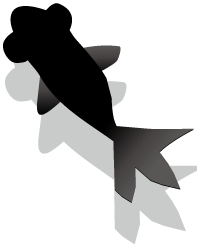
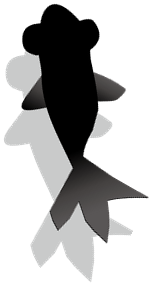
fix: 金魚の画像を頭上向きに統一し、進行方向へ正しく向くようにする
設計:
- 選定内容: 金魚の画像素材（goldfish-1〜4.png）を、目（黒い部分）の位置から頭部方向を検出し、全て頭が真上を向くよう回転・再トリミングした。表示側（GoldfishSchool.tsx）は、頭上向きを基準に進行方向（headingDeg、0度=右向き）へ合わせてrotate()で回転させるよう変更し、従来のscaleXによる左右反転（facingLeft）は廃止した
- 却下内容: N/A
- 理由: Issue #23（前方基準の小さな振れ＋端で転回モデル）導入後、金魚が後ろ向き（尾から進む）に見えるシーンが発生した。画像素材が個体ごとにバラバラの向きで保存されており、左右反転のみでは全方向の進行方向に対応できなかったため（issue #26）。頭上向きに統一した画像＋回転による向き合わせにより、あらゆる進行方向で正しく頭が前を向くようになる
- goldfish-3.pngは回転処理の過程で生じた小さな余分な破片（連結成分解析で検出）も除去した

影響:
- 影響モジュール: frontend/src/assets/goldfish/*.png（全て頭上向きに再調整）、frontend/src/goldfish/goldfishSwim.ts（facingLeft・GoldfishPose型を削除しGoldfishStateへ統一）、useGoldfishSchool.ts（同上に追従）、GoldfishSchool.tsx（scaleX→rotateへ変更）
- 振る舞いの変更: 金魚が常に進行方向へ頭を向けて泳ぐようになる

テスト:
- 追加済み/更新: goldfishSwim.test.ts（facingLeft関連のアサーションを削除）、GoldfishSchool.test.tsx（rotateで回転しscaleXは使わないことを確認するテストを追加）
- 未追加: 実機での見た目の確認（後ろ向きに見えるシーンが無いか）はユニットテスト対象外。ローカルでは画像の頭部方向をPythonスクリプトで定量測定し、全て真上±1度以内に補正されていることを確認済み。またPlaywrightで実際の描画を確認済み。PRのTest planに実機確認手順を記載する

diff --git a/frontend/src/goldfish/useGoldfishSchool.ts b/frontend/src/goldfish/useGoldfishSchool.ts
@@ -1,5 +1,5 @@
 import { useEffect, useRef, useState } from 'react'
-import { createInitialGoldfishState, stepGoldfish, type GoldfishPose, type GoldfishState } from './goldfishSwim'
+import { createInitialGoldfishState, stepGoldfish, type GoldfishState } from './goldfishSwim'
 
 function createSeeds(count: number): number[] {
   return Array.from({ length: count }, (_, index) => (index + 1) / (count + 1))
@@ -8,13 +8,11 @@ function createSeeds(count: number): number[] {
 // requestAnimationFrameでstepGoldfish（純粋関数）を毎フレーム評価し、金魚の群れの位置を更新する。
 // 位置・進行方向は前フレームの状態に依存するステートフルなシミュレーションのため、
 // statesRefで現在の状態を保持し、フレームごとに直接更新する。
-export function useGoldfishSchool(count: number): GoldfishPose[] {
+export function useGoldfishSchool(count: number): GoldfishState[] {
   const [seeds] = useState(() => createSeeds(count))
   const [initialStates] = useState(() => seeds.map(createInitialGoldfishState))
   const statesRef = useRef<GoldfishState[]>(initialStates)
-  const [poses, setPoses] = useState<GoldfishPose[]>(() =>
-    initialStates.map((state, index) => stepGoldfish(state, 0, 0, seeds[index])),
-  )
+  const [states, setStates] = useState<GoldfishState[]>(initialStates)
 
   useEffect(() => {
     const startTime = performance.now()
@@ -27,12 +25,9 @@ export function useGoldfishSchool(count: number): GoldfishPose[] {
       const elapsedMs = now - startTime
       lastTime = now
 
-      const nextPoses = statesRef.current.map((state, index) => {
-        const pose = stepGoldfish(state, dtSeconds, elapsedMs, seeds[index])
-        statesRef.current[index] = { xPercent: pose.xPercent, yPercent: pose.yPercent, headingDeg: pose.headingDeg }
-        return pose
-      })
-      setPoses(nextPoses)
+      const nextStates = statesRef.current.map((state, index) => stepGoldfish(state, dtSeconds, elapsedMs, seeds[index]))
+      statesRef.current = nextStates
+      setStates(nextStates)
       frameId = requestAnimationFrame(tick)
     }
 
@@ -40,5 +35,5 @@ export function useGoldfishSchool(count: number): GoldfishPose[] {
     return () => cancelAnimationFrame(frameId)
   }, [seeds])
 
-  return poses
+  return states
 }

diff --git a/frontend/src/goldfish/goldfishSwim.test.ts b/frontend/src/goldfish/goldfishSwim.test.ts
@@ -22,14 +22,12 @@ describe('stepGoldfish', () => {
     expect(next.xPercent).toBeCloseTo(55, 5)
     expect(next.yPercent).toBeCloseTo(50, 5)
     expect(next.headingDeg).toBe(0)
-    expect(next.facingLeft).toBe(false)
   })
 
-  it('振れ（wobble）は前方を中心に±15度の範囲に収まる', () => {
+  it('振れ（wobble）が加わっても、保持している進行方向の基準（headingDeg）自体は転回しない限り変化しない', () => {
     const state = { xPercent: 50, yPercent: 50, headingDeg: 0 }
     for (let elapsedMs = 0; elapsedMs <= 10000; elapsedMs += 100) {
       const next = stepGoldfish(state, 0.016, elapsedMs, 0.3)
-      // headingDeg自体（保持している進行方向の基準）は転回しない限り変化しない
       expect(next.headingDeg).toBe(0)
     }
   })
@@ -41,7 +39,6 @@ describe('stepGoldfish', () => {
 
     expect(next.xPercent).toBeLessThanOrEqual(90)
     expect(next.headingDeg).toBe(180)
-    expect(next.facingLeft).toBe(true)
   })
 
   it('下端に近づいて壁を超える移動をすると、垂直方向の進行方向が反転し位置は境界内にクランプされる', () => {
@@ -50,17 +47,5 @@ describe('stepGoldfish', () => {
 
     expect(next.yPercent).toBeLessThanOrEqual(90)
     expect(next.headingDeg).toBe(270)
-  })
-
-  it('進行方向の水平成分が負の場合はfacingLeftがtrueになる', () => {
-    const state = { xPercent: 50, yPercent: 50, headingDeg: 180 }
-    const next = stepGoldfish(state, 0.016, 0, 0)
-    expect(next.facingLeft).toBe(true)
-  })
-
-  it('進行方向の水平成分が正の場合はfacingLeftがfalseになる', () => {
-    const state = { xPercent: 50, yPercent: 50, headingDeg: 0 }
-    const next = stepGoldfish(state, 0.016, 0, 0)
-    expect(next.facingLeft).toBe(false)
   })
 })

diff --git a/frontend/src/goldfish/goldfishSwim.ts b/frontend/src/goldfish/goldfishSwim.ts
@@ -1,13 +1,9 @@
 export interface GoldfishState {
   xPercent: number
   yPercent: number
-  // 進行方向の基準となる角度（度）。0度=右向き、90度=下向き。
+  // 進行方向の基準となる角度（度）。0度=右向き、90度=下向き（画面座標系、時計回りが正）。
   // 端で転回する時以外は変化しない
   headingDeg: number
-}
-
-export interface GoldfishPose extends GoldfishState {
-  facingLeft: boolean
 }
 
 const MARGIN_PERCENT = 10
@@ -17,10 +13,6 @@ const WOBBLE_SPEED_RAD_PER_SEC = 2.5 // 振れの速さ
 
 function normalizeDeg(deg: number): number {
   return ((deg % 360) + 360) % 360
-}
-
-function toFacingLeft(headingDeg: number): boolean {
-  return Math.cos((headingDeg * Math.PI) / 180) < 0
 }
 
 function clampPercent(value: number): number {
@@ -43,7 +35,7 @@ export function stepGoldfish(
   dtSeconds: number,
   elapsedMs: number,
   seed: number,
-): GoldfishPose {
+): GoldfishState {
   const wobbleDeg = WOBBLE_DEG * Math.sin((elapsedMs / 1000) * WOBBLE_SPEED_RAD_PER_SEC + seed * Math.PI * 2)
   const travelRad = ((state.headingDeg + wobbleDeg) * Math.PI) / 180
 
@@ -66,6 +58,5 @@ export function stepGoldfish(
     xPercent: nextX,
     yPercent: nextY,
     headingDeg: nextHeading,
-    facingLeft: toFacingLeft(nextHeading),
   }
 }

diff --git a/frontend/src/components/GoldfishSchool.tsx b/frontend/src/components/GoldfishSchool.tsx
@@ -26,8 +26,10 @@ export function GoldfishSchool() {
             width: '3.5rem',
             // left/topではなくtransformで動かす。この要素はposition-fixedの
             // ビューポート全体に対する子要素のため、vw/vhをtranslateへ直接使うことで
-            // レイアウト再計算（reflow）を伴わないGPU合成のみの更新にできる（issue #14）
-            transform: `translate(${pose.xPercent}vw, ${pose.yPercent}vh) translate(-50%, -50%) scaleX(${pose.facingLeft ? -1 : 1})`,
+            // レイアウト再計算（reflow）を伴わないGPU合成のみの更新にできる（issue #14）。
+            // 画像素材は頭が真上を向くよう補正済みのため、headingDeg（0度=右向き）に
+            // 合わせて回転させる（真上=270度が基準のため+90度のオフセットが必要）。issue #26
+            transform: `translate(${pose.xPercent}vw, ${pose.yPercent}vh) translate(-50%, -50%) rotate(${pose.headingDeg + 90}deg)`,
           }}
         />
       ))}

diff --git a/frontend/src/components/GoldfishSchool.test.tsx b/frontend/src/components/GoldfishSchool.test.tsx
@@ -22,4 +22,13 @@ describe('GoldfishSchool', () => {
       expect(el.style.transform).toMatch(/translate\(-?\d+(\.\d+)?vw, -?\d+(\.\d+)?vh\)/)
     }
   })
+
+  it('画像は頭上向き基準のため、進行方向（headingDeg）に合わせてrotateで回転させる（scaleXでの反転はしない）', () => {
+    render(<GoldfishSchool />)
+    const fish = screen.getAllByTestId('goldfish')
+    for (const el of fish) {
+      expect(el.style.transform).toMatch(/rotate\(-?\d+(\.\d+)?deg\)/)
+      expect(el.style.transform).not.toContain('scaleX')
+    }
+  })
 })
